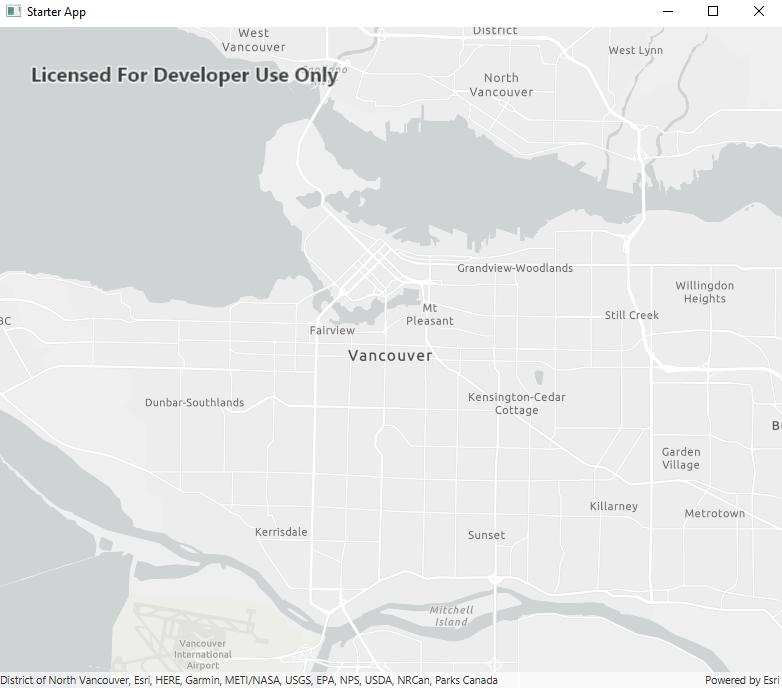
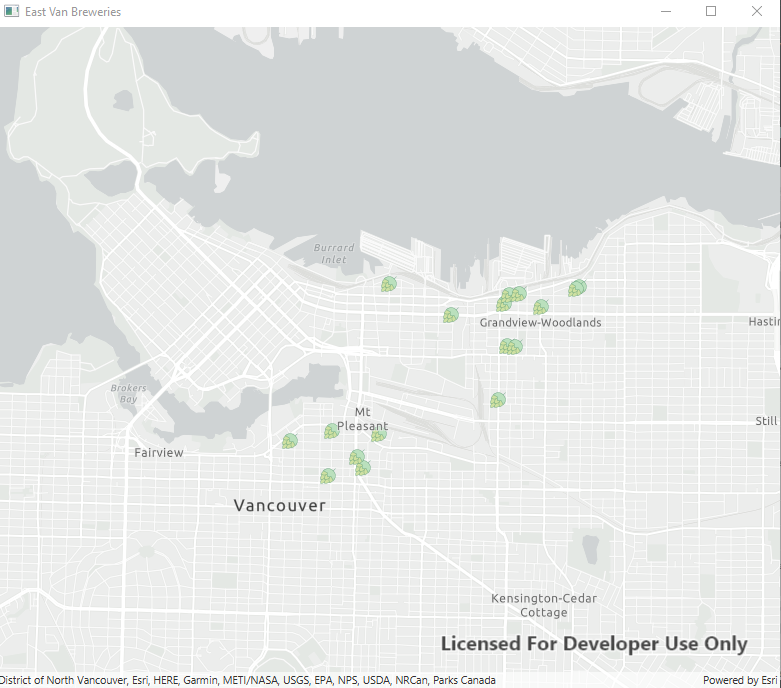
Update README.md and screenshot of app.

diff --git a/README.md b/README.md
@@ -1,10 +1,9 @@
-# ArcGIS Starter App
+# East Van Breweries Map
 
-Here is a starter project for the ArcGIS Runtime SDK for Java with Gradle. 
-
-Will be used as a base to work through the ArcGIS Runtime SDK for Java tutorials. 
+This app displays a map of East Vancouver breweries using a [hosted ArcGIS feature layer](https://arcg.is/LTWXO). 
 
 The app launches a window displaying a map.
+
 
 ![screenshot](screenshot.png)
 
